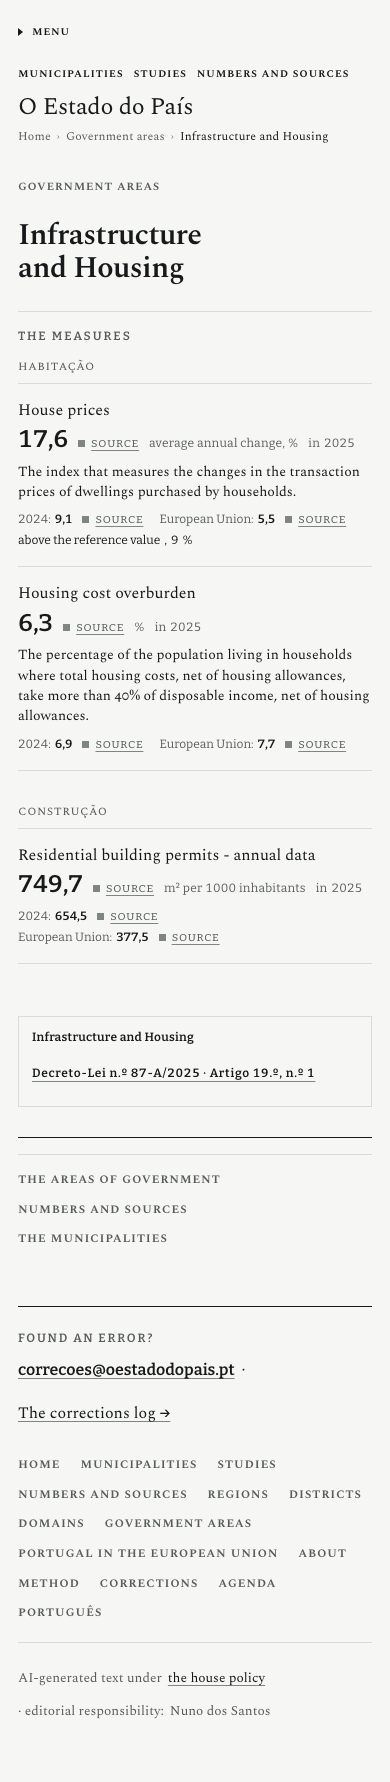
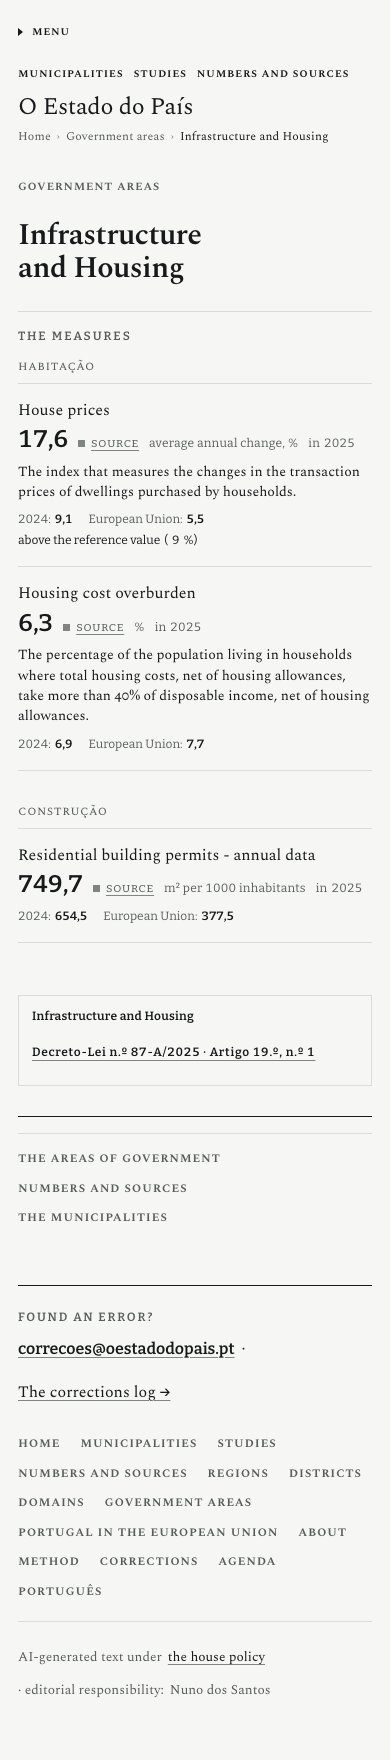
O relatório e a tabela com os três acertos, e as capturas de depois outra vez
O relatório abre pelos três acertos e pelo que eles mudaram, medido: 107 cartões
com nome em cada edição onde eram 87 e 41; 131 marcas da fonte por edição onde
eram 199; e a linha do estado com o valor de referência entre parênteses.

A tabela das cadeias ganha as três chaves do bloco «O enquadramento» do recibo, a
lista dos 81 cartões por edição que ficaram com o nome que a fonte dá à medida
(para o bloco P3 lhes dar o nome do projeto) e a lista dos 24 que continuam sem
nome, porque não há nome nenhum para lhes dar.

As quarenta capturas de depois refeitas sobre a cabeça dos acertos, e as duas
medições do gabarito outra vez: o espalhamento não mudou com eles.

Claude-Session: https://claude.ai/code/session_01NnbtconQTVqHVRpoVgoNPV

diff --git a/design/especime-v3/medicoes/p2-2026-09-15/LEIA-ME.md b/design/especime-v3/medicoes/p2-2026-09-15/LEIA-ME.md
@@ -7,34 +7,53 @@
 
 ---
 
-## 0 · O que o diretor tem de olhar primeiro nas capturas
+## 0 · Os três acertos de 15.09 à noite, e o que eles mudaram
 
-**Duas coisas, e as duas se veem nas capturas antes de se lerem aqui.**
+O lugar de direção leu as capturas da cabeça `2dceb7b9` e mandou três acertos.
+Estão feitos, cada um no seu commit, e o que eles mudaram está medido:
 
-**(1) Quarenta e quatro cartões portugueses e noventa ingleses ficaram sem nome.**
-É a consequência medida do item 4: um cartão cujo único nome era o título do
-documento da fonte, na língua da fonte, passa a não ter nome nenhum. Em português
-perdem-se vinte nomes (quinze títulos de documento e cinco rótulos da fonte, todos
-em inglês); **em inglês perdem-se sessenta e seis** (cinquenta e seis títulos e dez
-rótulos, todos em português). A regra do item 4 é simétrica, e é a do brief F1.15
-§1.3 («nas páginas portuguesas, 0 títulos de documento à vista; nas inglesas, o
-mesmo com os títulos portugueses»), mas o custo dela na edição inglesa é três
-vezes o da portuguesa, e isso não estava escrito em lado nenhum antes de ser
-medido. **O `nomes.json` que chegou às 19:43 não fecha este buraco**: ele traz o
-nome oficial do INE e da PORDATA para o RECIBO (a norma §1.5), e para trinta e
-duas medidas, não para as cento e trinta e uma. **É decisão do diretor**, nas
-capturas: ou fica assim até o motor exportar um nome de cartão por linha, ou o
-cartão volta a mostrar o nome na língua da fonte com a marca `lang` enquanto
-espera.
+| o acerto | antes | depois |
+| --- | --- | --- |
+| **(1) nenhum cartão fica sem nome** | 87 cartões com nome em português, 41 em inglês | **107 em cada edição**: 21 com o nome do projeto, 5 com o nome oficial confirmado do INE ou da PORDATA, e **81 com o nome que a fonte dá à medida** (15 deles com a marca `lang` em português, 71 em inglês, porque é nessa edição que os títulos portugueses são os estrangeiros) |
+| **(2) uma marca da fonte por cartão** | 199 marcas por edição, em 131 cartões | **131 por edição, uma por cartão**; os 68 valores de régua ficam sem marca própria e a porta deles é a do cartão, que abre o recibo, onde o bloco «O enquadramento» os lista |
 
-**(2) O cartão da habitação acabou com mais texto do que começou: 13 nós para
-19.** A régua é a resposta à pergunta dele («17,6 % de quê, e é muito ou pouco»),
-e custa treze nós de texto e duas marcas da fonte a mais por cartão: «2024: 9,1 ·
-União Europeia: 5,5 · acima do valor de referência, 9 %». O recibo que saiu valia
-sete. O §5.1 da norma manda justificar linha a linha um bloco de palavras que
-acabe com mais texto do que começou, e o §4 da tabela das cadeias fá-lo. Onde não
-há régua nem frase, que é a maior parte dos 131 cartões, a contagem desceu de 9,9
-para 6,6. **Se a régua for a mais, é ali que se corta**, e é decisão dele.
+**Um achado do acerto 2, e fica escrito porque não se vê a ler o código.** Escrevi
+uma dispensa no portão de HTML para o valor de régua sem marca própria, e medi-a a
+seguir: **zero vezes exercida em 7 358 páginas**. A razão é de 28.08.2026 e não
+deste bloco: a guarda `paginaDoLivro` do portão inclui a rota `area` desde o dia
+em que a página de área passou a render campos do livro-razão com a marca deles, e
+nessas páginas o portão confere cada CAMPO contra a linha (mais conferência, e não
+menos) e a conferência do SELO é a que não corre. Nunca houve nada para dispensar,
+e a dispensa saiu. **Quem promete a porta é a célula K10 da régua do bloco**:
+nenhum cartão com mais do que uma marca, e o recibo da medida a listar cada linha
+que a régua dela cita. Um leitor do cartão procuraria essa conferência no portão, e
+ela não está lá: está escrito nos dois ficheiros.
+| **(3) o valor de referência entre parênteses** | «acima do valor de referência, 9%» | **«acima do valor de referência (9%)»** |
+
+**O que continua sem nome, e não há nome para lhe dar: 24 cartões por edição.**
+São as linhas DERIVADAS, que não têm fonte nem documento porque a proveniência
+delas é a das origens, e as quatro cujo único título de documento é o próprio
+marcador. A lista está no §8, para o bloco P3 lhes dar o nome do projeto.
+
+**O acerto (3) fica a «(9%)» e não a «(9 %)»**, e é uma escolha e não um
+esquecimento: a mesma linha escreve-se «limiar 60% · acima» no cartão da faixa e
+na peça do painel, e duas formas para o mesmo número na mesma casa é o que este
+bloco existe para não ter. O símbolo é um campo declarado por medida em
+`src/data/figuras.mjs` (doze escrevem «%» e a taxa de atividade escreve « pp»): se
+a direção quiser o espaço fino, põe-se ali, uma vez, e chega a todos os sítios ao
+mesmo tempo.
+
+---
+
+## 0b · O que o diretor tem de olhar nas capturas
+
+**O cartão da habitação tem mais texto do que tinha: 13 nós para 17.** A régua é a
+resposta à pergunta dele («17,6 % de quê, e é muito ou pouco»), e custa onze nós
+de texto: «2024: 9,1 · União Europeia: 5,5 · acima do valor de referência (9%)».
+O recibo que saiu valia sete. O §5.1 da norma manda justificar linha a linha um
+bloco de palavras que acabe com mais texto do que começou, e o §4 da tabela das
+cadeias fá-lo. Onde não há régua nem frase, que é a maior parte dos 131 cartões, a
+contagem desceu de 9,9 para 6,5. **Se a régua for a mais, é ali que se corta.**
 
 ---
 
@@ -45,9 +64,9 @@ para 6,6. **Se a régua for a mais, é ali que se corta**, e é decisão dele.
 | 1 | o cartão com cinco coisas e nada mais | as cinco coisas e só elas em 100 % dos cartões das duas edições; «Publicado por», «Documento», «Lido na fonte a», «Dados de» a 0; a chave a 0 no texto visível | **cumprido.** 262 cartões (131 pt, 131 en), 0 blocos a mais, 0 rótulos de recibo, 0 chaves. Medido pela régua nova (`tests/cartao/cartao.mjs`, células K1, K2, K3), no `verify` |
 | 2 | o recibo ganha as duas datas da norma §2.5 e o nome oficial com a sua origem | a linha da próxima conferência em 100 % dos recibos com entrada no calendário | **cumprido, as duas metades.** As cinco linhas do livro-razão com acontecimento datado no calendário (`divida-publica-2025`, `evora-concentracao-vab4-2024`, `evora-empresas-2024`, `evora-vab-empresarial-2024`, `portugal-concentracao-vab4-2024`) rendem «Próxima conferência» nas duas edições, com a porta para o acontecimento na agenda: 5 de 5. E com o `nomes.json` que chegou às 19:43, o recibo ganhou o nome oficial: **17 recibos por edição com «Nome na PORDATA» e 9 com «Nome no INE»**, cada um com a porta para o endereço e a data a que o motor o leu. São os que o motor marca como a MESMA medida; os oito marcados «medida vizinha» e os sete por confirmar não chegam ao leitor |
 | 3 | a linha do tipo sai; o índice di-lo uma vez; a legenda da marca sai das páginas do leitor | «Governo Constitucional» a 1 no `dist/` de cada edição; a legenda a 0 fora do Método | **cumprido o primeiro, não cumprido à letra o segundo.** «Governo Constitucional» **1** em português e «Constitutional Government» **1** em inglês, os dois no índice das áreas (eram 9 e 9). A legenda da marca passa de **319 rotas por edição para 1** (o índice do livro-razão) e não para 0: as duas razões estão no §3 da tabela das cadeias, e as duas são mecânicas (o Método é texto governado e a decisão 1 da emenda de 15.09 à §1.108 diz quando ele se toca; `design:feixe` compõe o cartão do sistema de desenho lendo `p.marca-legenda` daquela rota, e sem ela o `verify` fecha) |
-| 4 | nenhum título de documento da fonte à vista na edição portuguesa | zero cadeias em inglês nos cartões da edição portuguesa, medido por uma régua nova sobre o `dist/` | **cumprido, com o custo medido no §0.** 0 elementos com `lang` declarado diferente do da página, nos 262 cartões, fora de duas exceções escritas na régua (a unidade que fica em português numa página inglesa, 3 ocorrências, pela I92; o marcador da casa, 8, pela `IDENTIDADE.md` §6). Célula K4 |
+| 4 | nenhum título de documento da fonte à vista na edição portuguesa | zero cadeias em inglês nos cartões da edição portuguesa | **a regra mudou a 15.09 à noite, e a medida com ela.** Cumpri-la à letra deixava 44 cartões portugueses e 90 ingleses sem nome nenhum, e o lugar de direção decidiu o contrário sobre as capturas: nenhum cartão fica sem nome, e o que está na língua da fonte di-lo com a marca `lang`. A célula K4 passa a medir o que a I91 sempre mandou: **o nome de um cartão carrega a língua que as tabelas declaram para ele, nem a mais nem a menos**. 86 cartões por edição com o nome na língua da fonte, todos com a marca certa; 0 sem ela |
 | 5 | «acima / abaixo / dentro do valor de referência», «sem valor de referência» | «limiar» a 0 no texto visível do `dist/` fora do Método | **cumprido nos cartões deste bloco; não cumprido no `dist/` inteiro, e a razão é a divisão do trabalho.** Nos 262 cartões a palavra está a 0 (célula K7), e as três cadeias novas usam **as mesmas chaves que o bloco P1 escreve** (`estado.acima`, `.abaixo`, `.entre`). As restantes cadeias com «limiar» (o cartão da faixa, a peça, a leitura breve, os títulos dos painéis) são a metade da troca que o P1 faz no ramo `porta-2026-09-15`, e duplicá-las aqui era garantir um conflito de fusão entre dois lados com o mesmo texto. A medida cumpre-se na fusão dos dois ramos |
-| 1d | a régua: o período anterior, a União e a palavra contra o valor de referência, tudo lido de linhas | a régua só onde a linha existe; nenhum valor à mão | **cumprido, com as 59 linhas que o motor selou às 19:43.** Por edição: **45 cartões com régua**, dos quais 45 com o período anterior, 23 com o agregado da União e 7 com a palavra contra o valor de referência. Nenhum valor é escrito pela casa: cada um é um `<Claim>` com a marca da fonte da sua linha. As cinco medidas sem agregado europeu desenham-se sem ele e não escrevem a ausência por palavras (§0.2 do brief). A célula K9 compara o valor de referência nas suas duas testemunhas, a declaração de `figuras.mjs` e a leitura da página da Comissão: **13 de 13 batem certo** |
+| 1d | a régua: o período anterior, a União e a palavra contra o valor de referência, tudo lido de linhas | a régua só onde a linha existe; nenhum valor à mão | **cumprido, com as 59 linhas que o motor selou às 19:43.** Por edição: **45 cartões com régua**, dos quais 45 com o período anterior, 23 com o agregado da União e 7 com a palavra contra o valor de referência. Nenhum valor é escrito pela casa: cada um é um `<Claim>`, e a porta dele é a marca única do cartão, que abre o recibo onde o bloco «O enquadramento» os lista (a decisão de 15.09 à noite). As cinco medidas sem agregado europeu desenham-se sem ele e não escrevem a ausência por palavras (§0.2 do brief). A célula K9 compara o valor de referência nas suas duas testemunhas, a declaração de `figuras.mjs` e a leitura da página da Comissão: **13 de 13 batem certo** |
 | 6 | um só gabarito; a faixa deixa de deslizar acima de 768; o mapa preenche a coluna a partir de 1024 | as capturas nas cinco larguras sem saltos, medidas por uma régua que compara as posições dos números e dos títulos entre cartões | **cumprido o gabarito e a faixa; não feito o mapa.** A régua é `gabarito-do-cartao.mjs`, 30 medições (3 rotas × 2 edições × 5 larguras). O espalhamento das posições do valor e do título dentro de cada cartão: **0 px em 14 das 30** (eram 2 das 30) e **máximo 17,6 px** (era 38,4). A faixa deixa de deslizar a partir de 768 px em todas as rotas medidas (deslizava em todas as larguras). Transbordo horizontal 0 nas cinco larguras, antes e depois. **O mapa não foi tocado**: é do bloco P1, que corre em paralelo e tem `MapaRespira.astro` e `mapa.css` abertos |
 | 7 | uma régua nova para o cartão, com cinco plantas a morder | as plantas a morder, com a saída no relatório | **cumprido, com oito e não cinco.** `tests/cartao/cartao.mjs --prova` monta um `dist/` de mentira com oito estragos plantados, um por célula, e exige que os oito mordam e que o cartão são não dê nenhum vermelho. Corre no `verify` (`npm run check:cartao`). A saída está no §5 |
 | 8 | as capturas e a tabela das cadeias | completas | **cumprido.** 80 capturas (4 rotas × 2 edições × 5 larguras × antes/depois) em `design/especime-v3/capturas/p2-2026-09-15/`; a tabela em `cadeias-antes-depois.md`, ao lado deste ficheiro |
@@ -60,17 +79,22 @@ A contagem é de **nós de texto à vista**, por cartão, depois de tirar o que 
 leitor de ecrã ouve (`.vh` e `aria-hidden`). Medida sobre o `dist/` de `2ab86986`
 e sobre o da cabeça final, com o mesmo guião.
 
-| família de página | edição | cartões | antes | depois, sem a régua | depois, com a régua |
-| --- | --- | --- | --- | --- | --- |
-| área da habitação | pt | 3 | 12,3 (13, 13, 11) | 8,3 (11, 9, 5) | **16,3** (19, 17, 13) |
-| área da habitação | en | 3 | 12,3 (13, 13, 11) | 8,7 (11, 9, 6) | **16,7** (19, 17, 14) |
-| área da economia | pt | 88 | 9,9 | 5,6 | **6,6** |
-| área da economia | en | 88 | 10,0 | 5,1 | **6,2** |
+| família de página | edição | cartões | antes | sem a régua | com a régua | depois dos acertos |
+| --- | --- | --- | --- | --- | --- | --- |
+| área da habitação | pt | 3 | 12,3 (13, 13, 11) | 8,3 | 16,3 | **14,7** (17, 15, 12) |
+| área da habitação | en | 3 | 12,3 (13, 13, 11) | 8,7 | 16,7 | **14,7** (17, 15, 12) |
+| área da economia | pt | 88 | 9,9 | 5,6 | 6,6 | **6,5** |
+| área da economia | en | 88 | 10,0 | 5,1 | 6,2 | **6,5** |
 
-A coluna do meio é a construção das 19:30 UTC, antes de as linhas do motor
-chegarem; a da direita é a cabeça final. A justificação linha a linha, que o §5.1
-da norma manda escrever para um bloco que acabe com mais texto do que começou,
-está no §4 da tabela das cadeias.
+As colunas do meio são as três construções do dia: às 19:30 UTC o cartão tinha
+perdido o recibo e ainda não tinha a régua; às 20:30 tinha a régua com três marcas;
+a última é a dos três acertos, com uma marca só (as duas palavras «fonte» que
+saíram são os dois nós a menos) e com o nome de volta em 20 cartões portugueses e
+66 ingleses. **As duas edições passam a ler o mesmo número de pedaços**, que é o
+que se espera de duas edições da mesma página.
+
+A justificação linha a linha, que o §5.1 da norma manda escrever para um bloco que
+acabe com mais texto do que começou, está no §4 da tabela das cadeias.
 
 **As cinco coisas não são cinco nós de texto**, e a diferença está dita para não
 parecer uma conta que não fecha: o cartão tem no máximo quatro BLOCOS (o nome, a
@@ -88,7 +112,14 @@ O cartão que o diretor leu, pedaço a pedaço, está no §4 da tabela das cadei
 | | pt | en |
 | --- | --- | --- |
 | cartões | 131 | 131 |
-| com nome | 87 (eram 107) | 41 (eram 107) |
+| com nome | 107 | 107 |
+| com o nome do projeto (`figuras.mjs`, `dominios.mjs`) | 21 | 21 |
+| com o nome oficial confirmado (INE ou PORDATA) | 5 | 5 |
+| com o nome que a fonte dá à medida | 81 | 81 |
+| desses, com a marca `lang` porque estão na outra língua | 15 | 71 |
+| sem nome, e sem nome nenhum para dar | 24 | 24 |
+| marcas da fonte | 131 (eram 199) | 131 (eram 199) |
+| valores de régua sem marca própria | 68 | 68 |
 | com a frase do que medem | 15 | 15 |
 | com régua | 45 | 45 |
 | com o período anterior | 45 | 45 |
@@ -154,7 +185,7 @@ estarem juntos**, porque antes disso a medição é sobre o texto que vai mudar.
 ### A régua nova do bloco (`npm run check:cartao`, dentro do `verify`)
 
 ```
-  prova: 8 estragos plantados, 8 vistos; o cartão são a 0; a régua com as duas
+  prova: 9 estragos plantados, 9 vistos; o cartão são a 0; a régua com as duas
   comparações de uma medida, a série bienal, a ausência da linha da União e uma
   chave que não se inventa; as duas testemunhas do valor de referência com um par
   bom e dois maus
@@ -163,14 +194,16 @@ estarem juntos**, porque antes disso a medição é sobre o texto que vai mudar.
 
     páginas lidas                    7358
     cartões                          262 (131 pt, 131 en)
-    com nome                         128
-    sem nome (à espera do motor)     134
+    com nome                         214
+    sem nome (à espera do motor)     48
     com a frase do que medem         30
     com régua                        90
     «Governo Constitucional»         1 pt · 1 en
     legenda da marca                 2 página(s)
+    nome na língua da fonte          86 (com a marca «lang»)
     unidade na outra língua          3 (a exceção da I92)
     o marcador em português          8 (a exceção da IDENTIDADE §6)
+    valores de régua sem marca própria                    136 (a porta é a do cartão)
     valores de referência, as duas testemunhas comparadas  13
     medidas com nome oficial no recibo                    11
     ficheiros do motor               referencias.json sim · nomes.json sim
@@ -178,11 +211,12 @@ estarem juntos**, porque antes disso a medição é sobre o texto que vai mudar.
   ✓ as cinco coisas e só elas, em todos os cartões das duas edições
 ```
 
-**As oito plantas, e o que cada uma prova:** um bloco a mais no cartão (K1); um
-rótulo de recibo dentro dele (K2); a chave no texto visível (K3); um título de
-documento em inglês numa página portuguesa (K4); um algarismo na régua sem linha
-e sem motivo declarado (K5); a frase mudada (K6); a palavra «limiar» (K7); a
-legenda da marca numa página de área (K8). O cartão são, no mesmo `dist/` de
+**As nove plantas, e o que cada uma prova:** um bloco a mais no cartão (K1); um
+rótulo de recibo dentro dele (K2); a chave no texto visível (K3); um nome
+estrangeiro SEM a marca da língua (K4, que é a pergunta nova depois do acerto 1);
+um algarismo na régua sem linha e sem motivo declarado (K5); a frase mudada (K6);
+a palavra «limiar» (K7); a legenda da marca numa página de área (K8); e um cartão
+com duas marcas da fonte, com um valor de régua cujo recibo não o lista (K10). O cartão são, no mesmo `dist/` de
 mentira, dá 0 vermelhos, que é a outra metade da prova: uma régua que grita por
 tudo também diz sempre alguma coisa.
 
@@ -240,12 +274,19 @@ cartão novo continua a levar: as duas continuam verdes sem uma linha mudada.
 | `aa84b85e` | O inventário com as linhas do motor, e a contagem do livro-razão datada |
 | `45b2b561` | A catraca da L1 sobe 118, que são as 59 linhas novas vezes duas edições |
 | `4eb57d98` | O tecto do cartão do sistema de desenho sobe, porque o livro-razão cresceu |
-| (o último) | O relatório, a tabela das cadeias, as medições e as quarenta capturas de depois |
+| `2dceb7b9` | O relatório, a tabela das cadeias, as medições e as quarenta capturas de depois |
+| `355d8ed2` | Nenhum cartão fica sem nome: a escada ganha um degrau e deixa de ter fundo |
+| `b2b9a827` | Uma marca da fonte por cartão, e o recibo passa a listar o enquadramento |
+| `8cbca79c` | O valor de referência entre parênteses, e sem a vírgula solta |
+| `d42d1a53` | As duas tabelas das línguas saem de `nomes.mjs`, que já não as usa |
+| `d8bbb6de` | A dispensa que eu tinha escrito no portão nunca dispensou nada, e sai |
+| (o último) | O relatório e a tabela refeitos com os acertos, e as quarenta capturas de depois outra vez |
 
 **A cabeça final está no §7**, com os códigos dos portões.
 
 **As nove primeiras são de antes de as linhas do motor chegarem**, às 19:43 UTC; as
-sete seguintes são o que elas obrigaram a mudar. Ficam separadas porque foram
+sete seguintes são o que elas obrigaram a mudar; as três últimas são os acertos que
+o lugar de direção mandou depois de ler as capturas. Ficam separadas porque foram
 assim: o que a chegada das linhas partiu, e o que ela destravou, lê-se melhor em
 commits do que numa reescrita.
 
@@ -307,16 +348,17 @@ Quem os quiser fechar tem a lista no ficheiro, com a nota de cada um.
 
 ### As quatro decisões que o construtor não tomou
 
-1. **Os nomes de cartão que se perderam** (o §0). 44 cartões portugueses e 90
-   ingleses sem nome. O `nomes.json` não resolve isto: ele traz o nome oficial
-   para o RECIBO, e só para 32 medidas. Ou fica assim até o motor exportar um nome
-   de cartão por linha (o item 1 do F1.15), ou o cartão volta a mostrar o nome na
-   língua da fonte com a marca `lang` enquanto espera. É a decisão com mais efeito
-   nas capturas.
-2. **A régua custa duas marcas da fonte a mais por cartão** (o §0, ponto 2). Cada
-   valor dela é uma linha e leva a porta para ela; não há forma de a tirar sem
-   tirar a proveniência. Se a régua for a mais, corta-se o que o diretor decidir:
-   o período anterior, o agregado, ou os dois.
+1. ~~**Os nomes de cartão que se perderam**~~ **Decidido a 15.09 à noite:** nenhum
+   cartão fica sem nome, e o que não tem nome do projeto nem nome oficial mostra o
+   nome da fonte com a marca `lang`. **Fica o que sobra:** 81 cartões por edição
+   com o nome da fonte, que o bloco P3 tem de nomear (a lista está no §7 da tabela
+   das cadeias), e **24 por edição sem nome nenhum**, para os quais não há nome da
+   fonte para mostrar (a lista está no §8 da mesma tabela).
+2. ~~**A régua custa duas marcas da fonte a mais por cartão**~~ **Decidido a 15.09
+   à noite:** uma marca por cartão, e o recibo lista as linhas do enquadramento. A
+   dispensa é declarada, o portão de HTML só a aceita quando o cartão tem a marca
+   da linha que o item declara, e a régua do bloco confere que o recibo lista
+   mesmo aquelas linhas.
 3. **A fila do estado do cartão da faixa** (o §4). Reservar três linhas, tirar o
    contador da posição da fila, ou alargar o cartão: decide-se depois de os dois
    ramos estarem juntos, porque antes disso a medição é sobre o texto que muda.

diff --git a/design/especime-v3/medicoes/p2-2026-09-15/cadeias-antes-depois.md b/design/especime-v3/medicoes/p2-2026-09-15/cadeias-antes-depois.md
@@ -130,3 +130,126 @@ O cartão que o diretor leu a 15.09 («Preços da habitação»), pedaço a peda
   construção, que é o trabalho dele. A afirmação passa a estar datada, na forma da
   casa: **o valor não se reescreve em silêncio**, e por isso continua a dizer
   2 916, agora com «a 02.09.2026» ao lado.
+
+---
+
+## 6 · Os acertos de 15.09 à noite, e as cadeias que eles mexeram
+
+O lugar de direção leu as capturas da cabeça `2dceb7b9` e mandou três acertos.
+
+| chave | antes | depois (pt) | depois (en) | razão |
+| --- | --- | --- | --- | --- |
+| `livro.linha.enquadramentoK` | (não existia) | O enquadramento | The comparisons | acerto 2. O título da secção do recibo que lista as linhas da régua, cada uma com a sua porta. É o que paga a marca única do cartão: sem ela, os valores da régua ficavam sem porta nenhuma |
+| `livro.linha.enquadramentoAnterior` | (não existia) | Período anterior | Previous period | acerto 2. O rótulo da linha do período anterior, nessa secção |
+| `livro.linha.enquadramentoUe` | (não existia) | União Europeia | European Union | acerto 2. O rótulo da linha do agregado, nessa secção |
+| a linha do estado do cartão | acima do valor de referência, 9% | acima do valor de referência (9%) | above the reference value (9%) | acerto 3. A vírgula punha uma pausa onde não há oração a seguir, e o que vem depois dela não é uma segunda coisa: é o valor de que a primeira fala. **Não é uma cadeia nova**: as três palavras não mudaram uma letra, mudou a pontuação que as liga ao algarismo, e por isso nenhuma linha do inventário muda |
+
+As três chaves do recibo não pedem linha de inventário: a rota `linha` não está em
+`ROTAS_DO_INVENTARIO`, pela mesma razão escrita no registo do bloco `corredor`.
+
+**O acerto 1 não mexeu em cadeia nenhuma**: nenhum texto novo foi escrito, e o que
+mudou foi qual dos textos que já existem encabeça o cartão. Os nomes que entraram
+são campos do livro-razão (`name`, `document.title`) e nomes do ficheiro do motor,
+todos conferidos carácter a carácter contra a sua origem, e nenhum deles é prosa
+da casa.
+
+## 7 · Os 81 cartões que ficaram com o nome que a fonte dá à medida
+
+O acerto 1 diz que nenhum cartão fica sem nome, e diz também de onde vem o nome
+enquanto não houver melhor: o da fonte, na língua dela e com a marca `lang`. Estes
+são os 81, por edição, para o **bloco P3 lhes dar o nome do projeto**. A coluna do
+degrau diz se o nome é o rótulo com que a fonte imprime a figura (`name`) ou o
+título do documento de onde a linha foi lida (`document.title`).
+
+| linha | degrau | o nome que o cartão mostra hoje |
+| --- | --- | --- |
+| `agua-nao-faturada-portugal-2024` | document.title | RASARP — Relatório Anual dos Serviços de Águas e Resíduos em |
+| `alentejo-central-poder-de-compra-2023` | name | Poder de compra per capita por Localização geográfica (NUTS  |
+| `criancas-em-creche-2025` | document.title | Children aged less than 3 years in formal childcare |
+| `disparidade-de-emprego-entre-sexos-2025` | document.title | Gender employment gap |
+| `evora-camara-lugares` | document.title | Autárquicas 2025 — resultados oficiais por território |
+| `evora-camara-mandatos-cdu-2013` | document.title | Autárquicas 2013 — resultados oficiais por território |
+| `evora-camara-mandatos-cdu-2017` | document.title | Autárquicas 2017 — resultados oficiais por território |
+| `evora-camara-mandatos-cdu-2021` | document.title | Autárquicas 2021 — resultados oficiais por território |
+| `evora-camara-mandatos-ps-2009` | document.title | Autárquicas 2009 — resultados oficiais por território |
+| `evora-camara-mandatos-ps-2025` | document.title | Autárquicas 2025 — resultados oficiais por território |
+| `evora-concentracao-vab4-2024` | name | Indicador de concentração do valor acrescentado bruto das qu |
+| `evora-contas-2024-votos-contra` | document.title | Certificação Legal das Contas |
+| `evora-contas-2024-votos-favor` | document.title | Certificação Legal das Contas |
+| `evora-desemprego-registado-2013` | document.title | SIE - Desemprego registado por concelhos |
+| `evora-desemprego-registado-2024` | document.title | SIE - Desemprego registado por concelhos |
+| `evora-despesa-paga-2025` | document.title | Prestação de Contas 2025 |
+| `evora-divida-31-10-2013` | document.title | Relatório de Gestão 2015 |
+| `evora-divida-dgal-2014` | document.title | Evolução endividamento total |
+| `evora-divida-dgal-2017` | document.title | Evolução endividamento total |
+| `evora-divida-dgal-2021` | document.title | Evolução endividamento total |
+| `evora-divida-dgal-2024` | document.title | Evolução endividamento total |
+| `evora-divida-inicio-mandato-reexpressa` | name | Dívida Total no Início do Mandato |
+| `evora-divida-total-2017` | name | DÍVIDA TOTAL DE OPERAÇÕES ORÇAMENTAIS = (1) + (2) |
+| `evora-divida-total-2021` | name | DÍVIDA TOTAL DE OPERAÇÕES ORÇAMENTAIS = (1) + (2) |
+| `evora-divida-total-2024` | document.title | Prestação de Contas 2025 |
+| `evora-divida-total-2025` | name | DÍVIDA TOTAL DE OPERAÇÕES ORÇAMENTAIS = (1) + (2) |
+| `evora-excesso-endividamento-2014` | document.title | Relatório de Gestão 2021 |
+| `evora-excesso-endividamento-2019` | document.title | Relatório de Gestão 2021 |
+| `evora-execucao-da-receita-2021` | document.title | Prestação de Contas 2025 |
+| `evora-execucao-da-receita-2025` | document.title | Prestação de Contas 2025 |
+| `evora-executivo-2025-ad` | document.title | Autárquicas 2025 — resultados oficiais por território |
+| `evora-executivo-2025-cdu` | document.title | Autárquicas 2025 — resultados oficiais por território |
+| `evora-executivo-2025-chega` | document.title | Autárquicas 2025 — resultados oficiais por território |
+| `evora-executivo-2025-ps` | document.title | Autárquicas 2025 — resultados oficiais por território |
+| `evora-limite-divida-2025` | name | LIMITE = Média dos Últimos 3 Exercícios * 1,5 |
+| `evora-limite-divida-dgal-2014` | document.title | Evolução endividamento total |
+| `evora-limite-divida-dgal-2017` | document.title | Evolução endividamento total |
+| `evora-limite-divida-dgal-2021` | document.title | Evolução endividamento total |
+| `evora-limite-divida-dgal-2024` | document.title | Evolução endividamento total |
+| `evora-margem-endividamento-2025` | document.title | Prestação de Contas 2025 |
+| `evora-orcamento-2025` | document.title | Prestação de Contas 2025 |
+| `evora-pael-emprestimo` | document.title | Relatório de Gestão 2016 |
+| `evora-pagamentos-em-atraso-2025` | document.title | Prestação de Contas 2025 |
+| `evora-pelouros-2021-presidente` | document.title | Executivo — Câmara Municipal de Évora |
+| `evora-pelouros-2021-vice-presidente` | document.title | Executivo — Câmara Municipal de Évora |
+| `evora-pelouros-2025-presidente` | document.title | Executivo — Câmara Municipal de Évora |
+| `evora-pelouros-2025-vereadora` | document.title | Executivo — Câmara Municipal de Évora |
+| `evora-pelouros-2025-vice-presidente` | document.title | Executivo — Câmara Municipal de Évora |
+| `evora-poder-de-compra-2023` | name | Poder de compra per capita por Localização geográfica (NUTS  |
+| `evora-prazo-medio-de-pagamento-2023` | document.title | Prestação de Contas 2025 |
+| `evora-prazo-medio-de-pagamento-2025` | document.title | Prestação de Contas 2025 |
+| `evora-prr-aprovado-2026` | document.title | Listagem de entidades PRR |
+| `evora-prr-municipio-contratado` | document.title | Listagem de entidades PRR |
+| `evora-prr-pago-2026` | document.title | Listagem de entidades PRR |
+| `evora-prr-universidade-contratado` | document.title | Listagem de entidades PRR |
+| `evora-prr-vencido-aprovado-2026` | document.title | Listagem de entidades PRR |
+| `evora-receita-cobrada-2025` | document.title | Prestação de Contas 2025 |
+| `evora-saneamento-financeiro-2016` | document.title | Relatório de Gestão 2016 |
+| `evora-vab-empresarial-2024` | name | Valor acrescentado bruto (€) das Empresas por Localização ge |
+| `factor-sustentabilidade-2026` | document.title | Reformar as Pensões em Portugal: Por um Sistema Sustentável, |
+| `licencas-de-construcao-2025` | document.title | Residential building permits - annual data |
+| `municipios-acores-caop-2025` | document.title | Carta Administrativa Oficial de Portugal (CAOP) |
+| `municipios-continente-caop-2025` | document.title | Carta Administrativa Oficial de Portugal (CAOP) |
+| `municipios-madeira-caop-2025` | document.title | Carta Administrativa Oficial de Portugal (CAOP) |
+| `municipios-portugal-caop-2025` | document.title | Carta Administrativa Oficial de Portugal (CAOP) |
+| `penalizacao-antecipacao-um-ano-com-factor-2026` | document.title | Reformar as Pensões em Portugal: Por um Sistema Sustentável, |
+| `penalizacao-antecipacao-um-ano-neutra` | document.title | Reformar as Pensões em Portugal: Por um Sistema Sustentável, |
+| `penalizacao-antecipacao-um-ano-sem-factor-2026` | document.title | Reformar as Pensões em Portugal: Por um Sistema Sustentável, |
+| `pib-pc-acores-2024` | name | Gross domestic product (GDP) at current market prices by NUT |
+| `pib-pc-alentejo-2000` | document.title | Gross domestic product (GDP) at current market prices by NUT |
+| `pib-pc-alentejo-2024` | document.title | Gross domestic product (GDP) at current market prices by NUT |
+| `pib-pc-algarve-2024` | document.title | Gross domestic product (GDP) at current market prices by NUT |
+| `pib-pc-centro-2024` | name | Gross domestic product (GDP) at current market prices by NUT |
+| `pib-pc-grande-lisboa-2024` | document.title | Gross domestic product (GDP) at current market prices by NUT |
+| `pib-pc-madeira-2024` | document.title | Gross domestic product (GDP) at current market prices by NUT |
+| `pib-pc-norte-2024` | name | Gross domestic product (GDP) at current market prices by NUT |
+| `pib-pc-oeste-e-vale-do-tejo-2024` | name | Gross domestic product (GDP) at current market prices by NUT |
+| `pib-pc-peninsula-de-setubal-2024` | document.title | Gross domestic product (GDP) at current market prices by NUT |
+| `pib-pc-portugal-2024` | document.title | Gross domestic product (GDP) at current market prices by NUT |
+| `portugal-concentracao-vab4-2024` | name | Indicador de concentração do valor acrescentado bruto das qu |
+| `retribuicao-minima-mensal-doze-meses-2026` | name | Monthly minimum wages - bi-annual data |
+
+## 8 · Os 24 que continuam sem nome, e porquê
+
+Não há nome nenhum para lhes dar: são as linhas DERIVADAS, que não têm fonte nem
+documento porque a proveniência delas é a das origens, e as quatro cujo único
+título de documento é o próprio marcador. O bloco P3 tem de lhes dar um nome do
+projeto, ou deixá-las sem ele com a razão escrita.
+
+`avisos-pt2030-abertos`, `avisos-pt2030-pessoas-singulares`, `ciclo-substituicao-condutas`, `distancia-acores-ue27-2024`, `distancia-alentejo-ue27-2000`, `distancia-alentejo-ue27-2024`, `distancia-algarve-ue27-2024`, `distancia-centro-ue27-2024`, `distancia-grande-lisboa-ue27-2024`, `distancia-madeira-ue27-2024`, `distancia-norte-ue27-2024`, `distancia-oeste-e-vale-do-tejo-ue27-2024`, `distancia-peninsula-de-setubal-ue27-2024`, `distancia-portugal-ue27-2024`, `distancia-setubal-grande-lisboa-2024`, `evora-divergencia-municipio-dgal-2024`, `evora-indice-de-divida-2014`, `evora-indice-de-divida-2017`, `evora-indice-de-divida-2021`, `evora-indice-de-divida-2024`, `evora-pelouros-2021-total`, `evora-pelouros-2025-total`, `evora-prr-execucao-2026`, `evora-prr-vencido-quota-2026`
